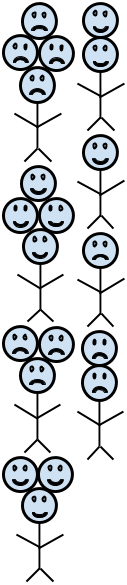
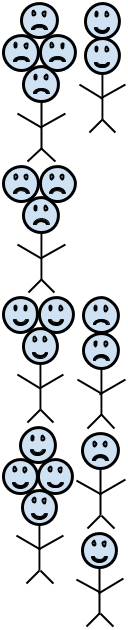
Dynamically spacing up to 6 monsters per level

diff --git a/Level.ts b/Level.ts
@@ -15,18 +15,18 @@ module Main {
         public machines: Phaser.Group;
 
         public chomp: Phaser.Sound;
+        public nextLevelButton: NextLevelButton;
 
         private background: Phaser.Sprite;
         private levelGroup: Phaser.Group;
-        private nextLevelButton: NextLevelButton;
 
-        private static NEXT_BUTTON_POINT: Phaser.Point = new Phaser.Point(950, 400);
+        private static NEXT_BUTTON_POINT: Phaser.Point = new Phaser.Point(10, 500);
         private static MAKER_POINT: Phaser.Point = new Phaser.Point(-125, 0);
-        private static MULTIPLIER_START_POINT: Phaser.Point = new Phaser.Point(225, 50);
-        private static MONSTER_START_POINT: Phaser.Point = new Phaser.Point(450, 350);
+        private static MULTIPLIER_START_POINT: Phaser.Point = new Phaser.Point(225, 15);
+        private static MONSTER_START_POINT: Phaser.Point = new Phaser.Point(450, 265);
 
         private static MULTIPLIER_OFFSET: number = 475;
-        private static MONSTER_OFFSET: number = 350;
+        private static MONSTERS_PER_ROW: number = 3;
 
         init(chomp?: Phaser.Sound) {
             this.chomp = chomp;
@@ -76,21 +76,41 @@ module Main {
 
         private addMonsters(heads: number[], isServed: boolean[], basePizzaAmount: Fraction) {
             for (var i: number = 0; i < heads.length; i++) {
-                var headNumber: number = heads[i];
-                var amount: Fraction = basePizzaAmount.multiply(new Fraction(headNumber));
-                var monster = new Monster(this,
-                    headNumber,
-                    amount,
-                    Level.MONSTER_START_POINT.x + i * Level.MONSTER_OFFSET,
-                    Level.MONSTER_START_POINT.y);
-                this.monsters.add(monster);
+                var amount: Fraction = this.getDesiredFood(heads[i], basePizzaAmount)
+                var origin = this.getMonsterPoint(i);
 
+                var monster = new Monster(this, heads[i], amount, origin.x, origin.y);
+                this.monsters.add(monster);
+            }
+
+            // Serve monsters after to preserve spacing
+            for (var i: number = 0; i < isServed.length; i++) {
+                var monster: Monster = this.monsters.getAt(i);
+                var amount: Fraction = this.getDesiredFood(heads[i], basePizzaAmount);
                 if (isServed[i]) {
                     var pizza = new Pizza(this, amount, monster.x, monster.y, false);
                     this.pizzas.add(pizza);
                     monster.servePizza(pizza, false);
                 }
             }
+        }
+
+        private getMonsterPoint(index: number): Phaser.Point {
+            if (index == 0) {
+                return Level.MONSTER_START_POINT;
+            }
+
+            if (index % Level.MONSTERS_PER_ROW == 0) {
+                var monsterAbove: Monster = this.monsters.getAt(index - Level.MONSTERS_PER_ROW);
+                return new Phaser.Point(monsterAbove.x, monsterAbove.y + monsterAbove.height);
+            }
+
+            var lastMonster: Monster = this.monsters.getAt(index - 1);
+            return new Phaser.Point(lastMonster.x + lastMonster.width + Pizza.MAX_WIDTH, lastMonster.y);
+        }
+
+        private getDesiredFood(heads: number, baseAmount: Fraction): Fraction {
+            return baseAmount.multiply(new Fraction(heads));
         }
 
     }

diff --git a/LevelSettings.ts b/LevelSettings.ts
@@ -60,8 +60,8 @@ module Main {
                 case 0:
                     return settings.advanceLevel(new Fraction(1, 4),
                                                 [new Fraction(1, 2)],
-                                                [2, 4],
-                                                [true, false]);
+                                                [4, 4, 2],
+                                                [true, false, false]);
                 case 1:
                 default:
                     return settings.advanceLevel(new Fraction(1, 2),

diff --git a/monster/MonsterSprite.ts b/monster/MonsterSprite.ts
@@ -33,8 +33,8 @@ module Main {
         }
 
         private static chooseSprite(heads: number, isServed: boolean): string {
-            var assetSuffix: string = isServed ? "happy" : "sad";
-            return heads + "head_" + assetSuffix + ".png";
+            var assetPrefix: string = isServed ? "happy" : "sad";
+            return assetPrefix + "/" + heads + "head" + ".png";
         }
     }
 }

diff --git a/pizza/Pizza.ts b/pizza/Pizza.ts
@@ -11,8 +11,11 @@ module Main {
         public isServed: boolean = false;
         public amount: Fraction;
 
+        public static MAX_WIDTH: number = 190;
+
         private static MASK_OFFSET: Phaser.Point = new Phaser.Point(50, 31);
 
+        // Values for a single Pizza, for placement within the group
         private static WIDTH: number = 90;
         private static HEIGHT: number = 15;
 

diff --git a/NextLevelButton.ts b/NextLevelButton.ts
@@ -16,6 +16,7 @@ module Main {
 
         private nextLevel(): void {
             this.game.state.start('Level', true, false, this.level.chomp);
+            this.level.nextLevelButton = null;
         }
 
     }
